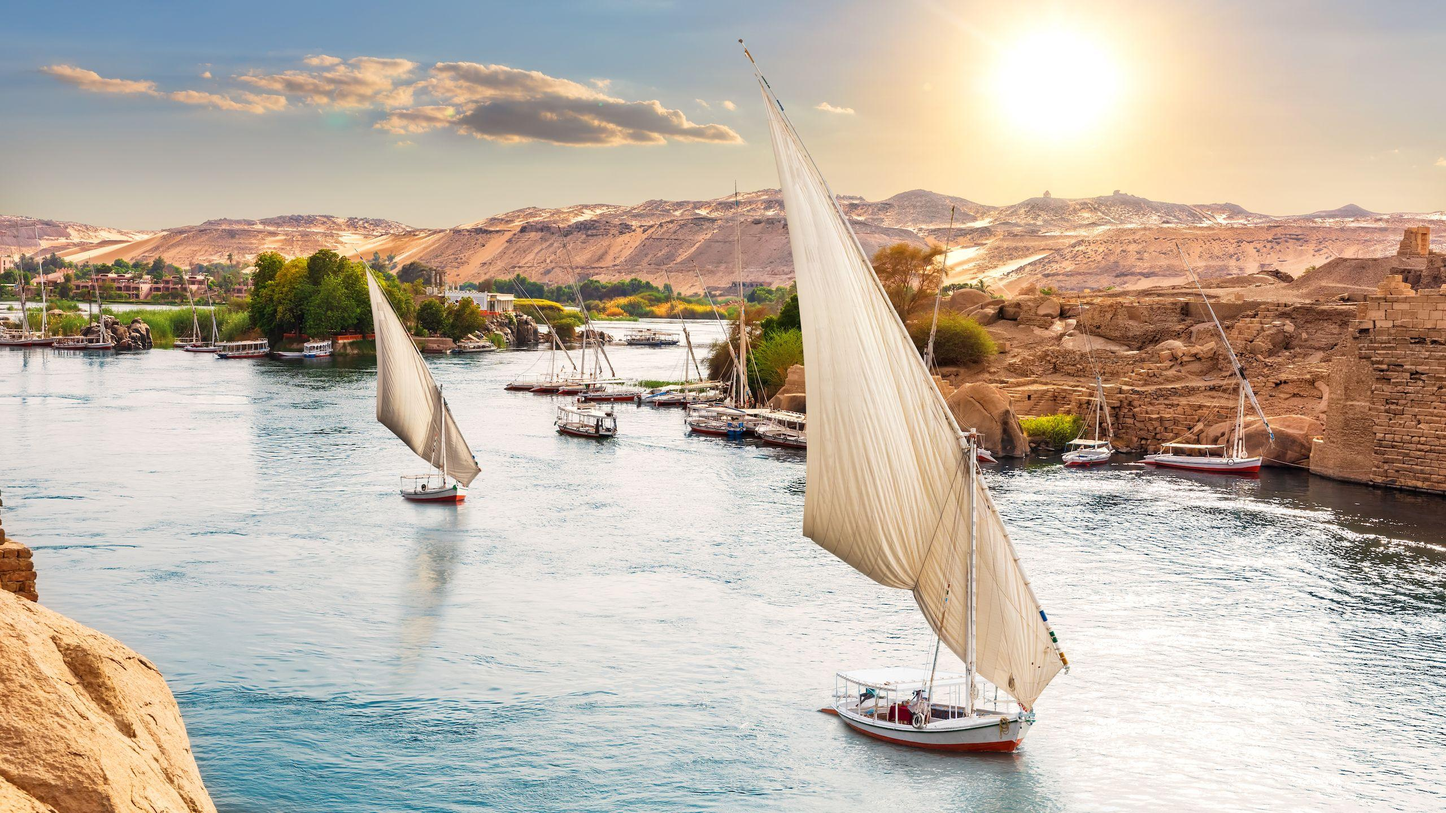
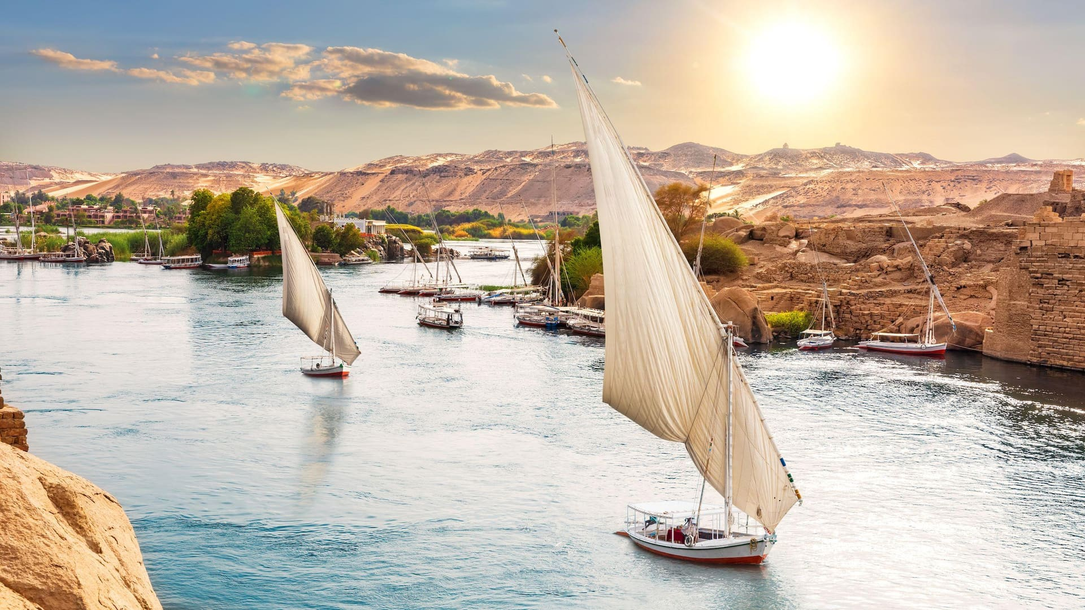
..

Changed region(s): [[0.9062, 0.6417, 1.0, 0.7944], [0.75, 0.6111, 0.7812, 0.6417]]

diff --git a/components/sections/AboutUs.tsx b/components/sections/AboutUs.tsx
@@ -27,14 +27,21 @@ export function AboutUs({ locale, ui, copy, conversion }: AboutUsProps) {
       <section
         className="about-hero"
         aria-labelledby="about-hero-heading"
-        style={{
-          backgroundImage:
-            "linear-gradient(rgba(13,17,18,0.72), rgba(13,17,18,0.72)), url('/images/pages/about-us/pyramids.jpg')",
-          backgroundSize: "cover",
-          backgroundPosition: "center",
-          backgroundRepeat: "no-repeat",
-        }}
       >
+        <Image
+          src="/images/pages/about-us/pyramids.jpg"
+          alt=""
+          fill
+          priority
+          sizes="100vw"
+          quality={70}
+          style={{
+            objectFit: "cover",
+            objectPosition: "center",
+            zIndex: 0,
+          }}
+          aria-hidden="true"
+        />
         <div className="about-hero__overlay" aria-hidden="true" />
         <Container className="about-hero__content">
           <p className="eyebrow about-hero__kicker">{eyebrow}</p>
@@ -154,6 +161,7 @@ function AboutChapter({ index, section, ui }: AboutChapterProps) {
                 alt={section.image.alt}
                 fill
                 sizes="(max-width: 768px) 100vw, 45vw"
+                quality={70}
                 style={{ objectFit: "cover" }}
                 priority={index === 0}
               />
@@ -204,3 +212,4 @@ function AboutChapter({ index, section, ui }: AboutChapterProps) {
     </article>
   );
 }
+

diff --git a/components/NoJSSwap.tsx b/components/NoJSSwap.tsx
@@ -1,0 +1,26 @@
+"use client";
+
+import { useEffect } from "react";
+
+/**
+ * Replaces the `no-js` class on `<html>` with `js` *after* hydration.
+ *
+ * The root layouts server-render `<html className="no-js ...">` and rely on a
+ * tiny swap (`no-js` -> `js`) to enable JS-driven reveal animations — see the
+ * `html:not(.js)` rules in `app/styles/premium-refinements.css`. Running that
+ * swap as an inline script inside `<head>` mutates `<html>` BEFORE React
+ * hydrates, which triggers a hydration mismatch on the `<html>` className.
+ *
+ * Doing the swap in a client component's `useEffect` guarantees it runs strictly
+ * AFTER hydration, so the server- and client-rendered className are identical
+ * at hydrate time. The no-JS fallback is preserved (the effect never runs when
+ * JS is disabled, so `no-js` stays and `html:not(.js)` rules apply).
+ */
+export function NoJSSwap() {
+  useEffect(() => {
+    const root = document.documentElement;
+    root.classList.remove("no-js");
+    root.classList.add("js");
+  }, []);
+  return null;
+}

diff --git a/app/[locale]/layout.tsx b/app/[locale]/layout.tsx
@@ -17,6 +17,8 @@ import {
   type Locale,
 } from "@/lib/i18n";
 
+import { NoJSSwap } from "@/components/NoJSSwap";
+
 const display = Cormorant_Garamond({
   variable: "--font-display",
   subsets: ["latin", "latin-ext"],
@@ -131,14 +133,11 @@ export default async function LocaleLayout({
       dir={getDirection(safeLocale)}
       className={`no-js ${display.variable} ${sans.variable} ${arabic.variable}`}
     >
-      <head>
-        <script
-          dangerouslySetInnerHTML={{
-            __html: `document.documentElement.classList.remove('no-js');document.documentElement.classList.add('js');`,
-          }}
-        />
-      </head>
-      <body>{children}</body>
+            <head />
+      <body>
+        <NoJSSwap />
+        {children}
+      </body>
     </html>
   );
 }

diff --git a/app/(home)/layout.tsx b/app/(home)/layout.tsx
@@ -4,6 +4,7 @@ import {
   Noto_Sans_Arabic,
 } from "next/font/google";
 import "../globals.css";
+import { NoJSSwap } from "@/components/NoJSSwap";
 
 const display = Cormorant_Garamond({
   variable: "--font-display",
@@ -30,14 +31,11 @@ export default function HomeLayout({
 }>) {
     return (
     <html lang="en" className={`no-js ${display.variable} ${sans.variable} ${arabic.variable}`}>
-      <head>
-        <script
-          dangerouslySetInnerHTML={{
-            __html: `document.documentElement.classList.remove('no-js');document.documentElement.classList.add('js');`,
-          }}
-        />
-      </head>
-      <body>{children}</body>
+            <head />
+      <body>
+        <NoJSSwap />
+        {children}
+      </body>
     </html>
   );
 }
